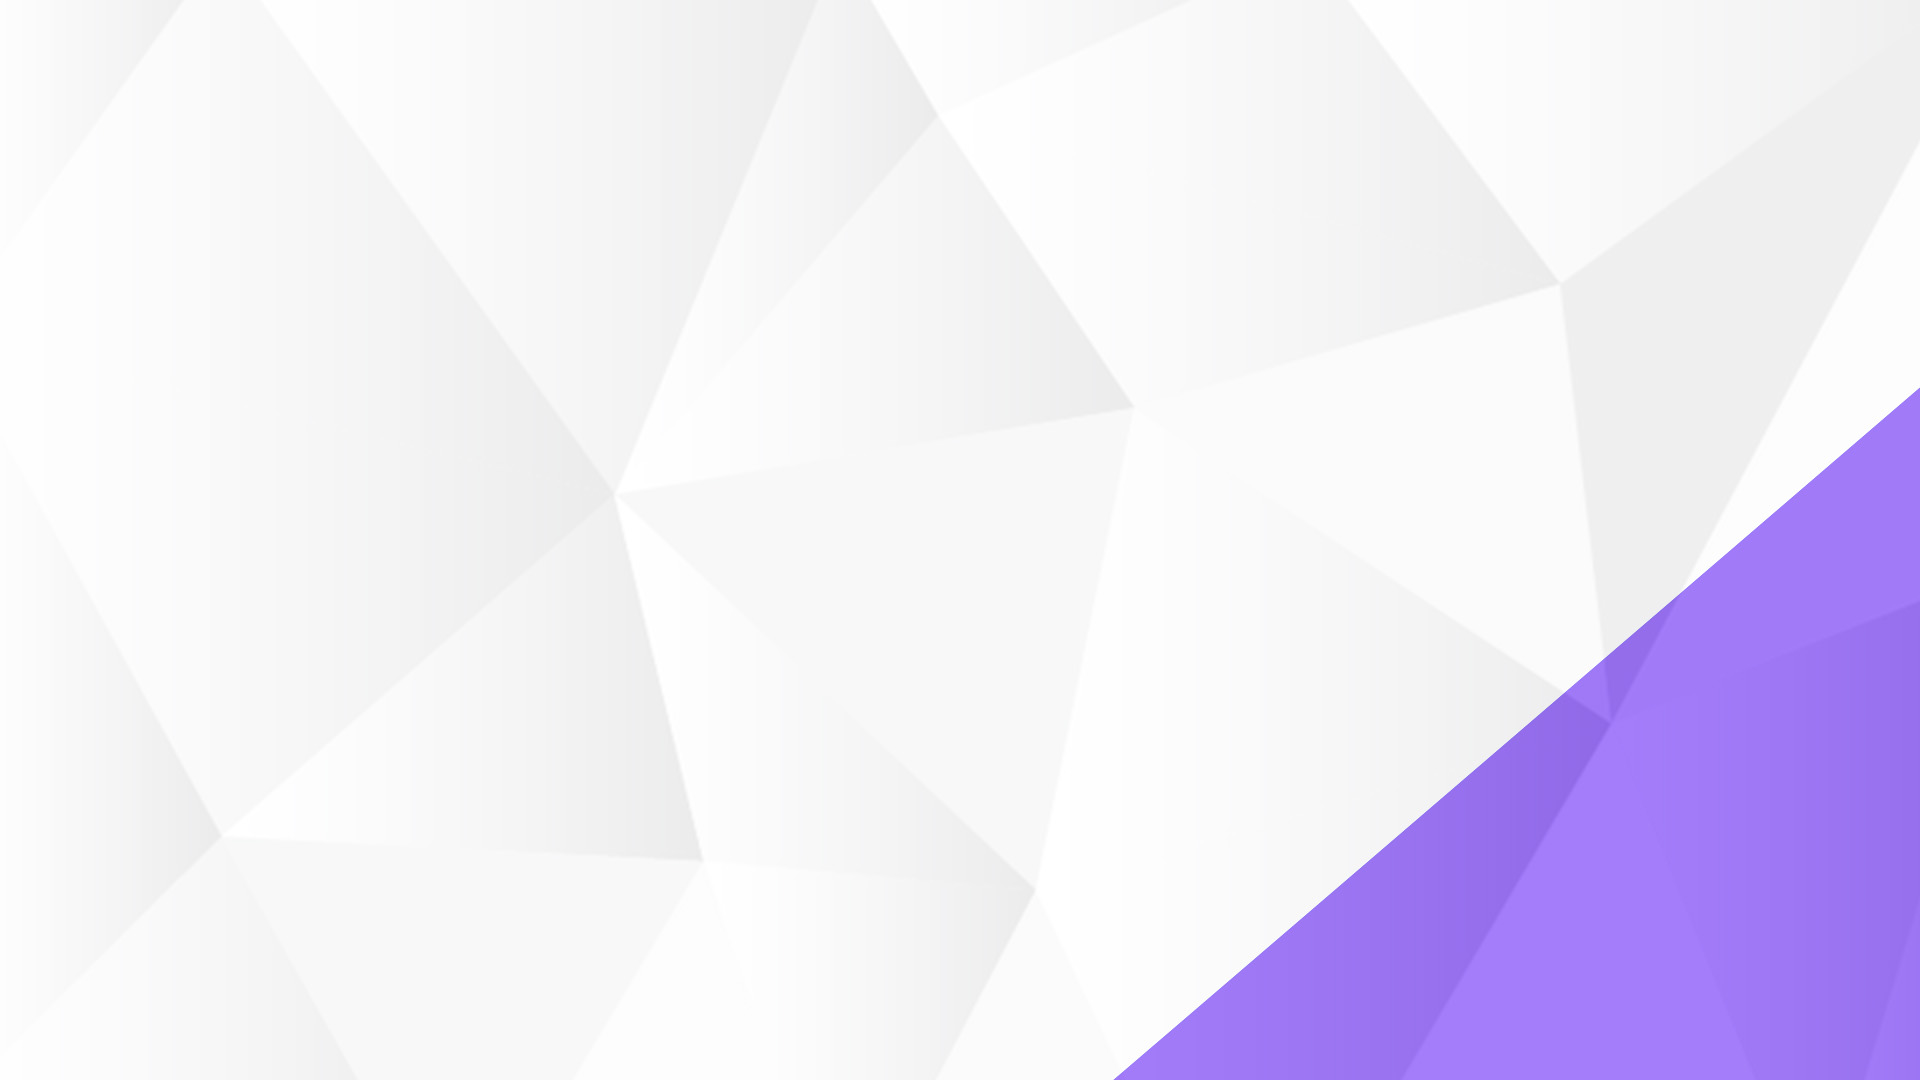
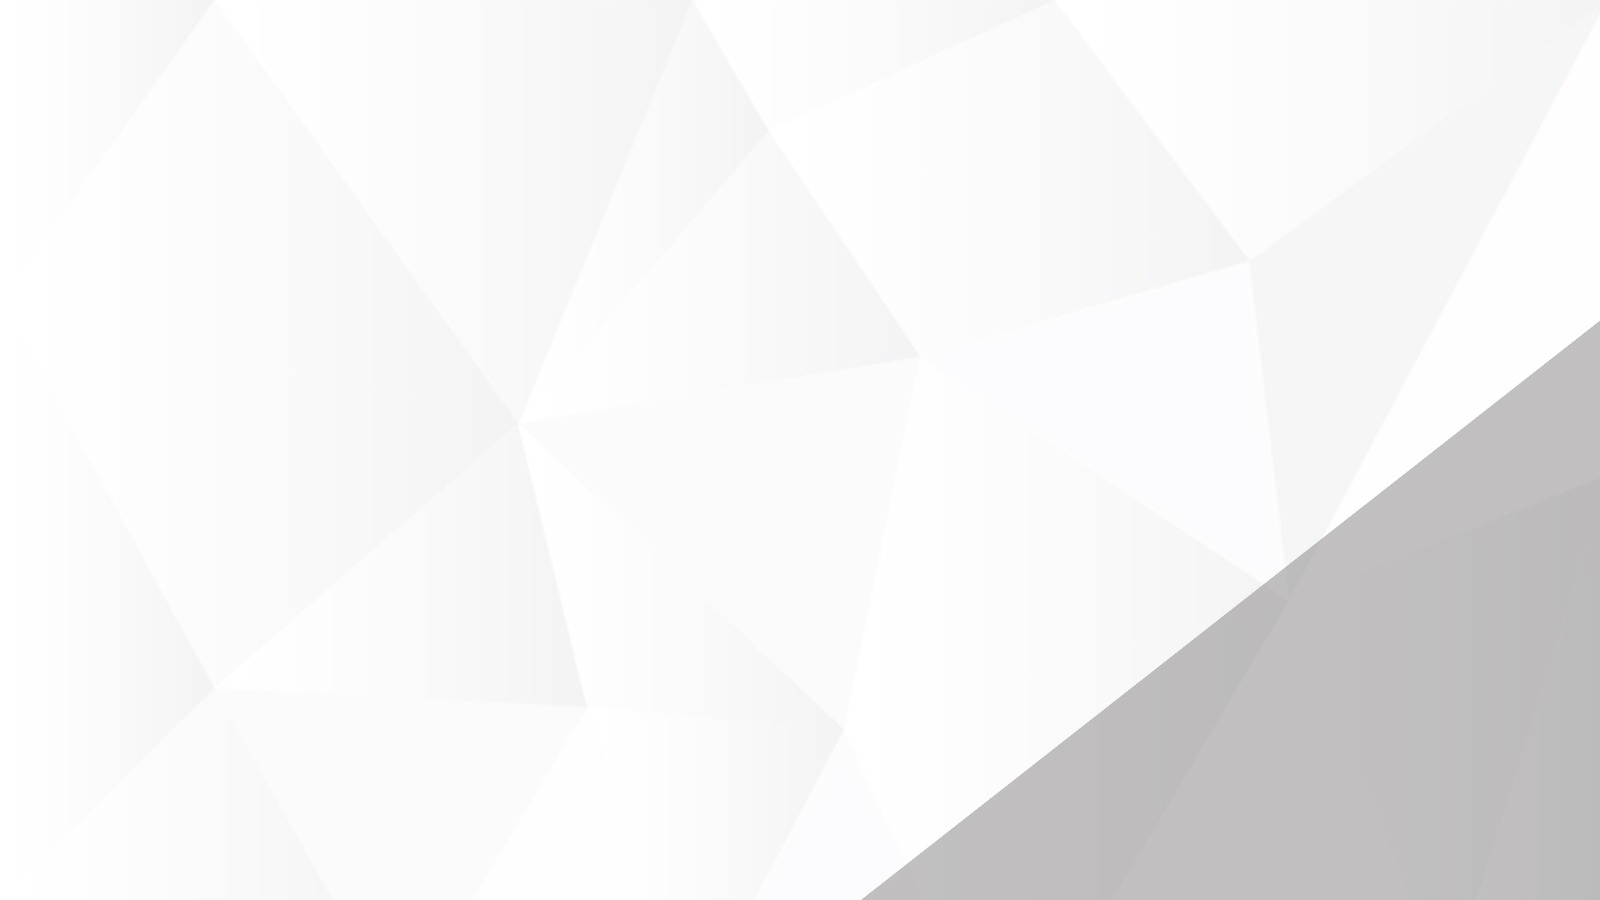
private routing

Changed region(s): [[0.5312, 0.3422, 1.0, 1.0]]

diff --git a/src/App.jsx b/src/App.jsx
@@ -1,23 +1,31 @@
-import { Route, Routes } from 'react-router-dom'
-import './App.css'
-import Login from './Pages/Login'
-import { Dashboard } from './Pages/Dashboard'
-import Home from './Pages/Home'
-import Category from './Pages/Category'
-import Contest from './Pages/Contest'
-function App() {
+// App.js
+import { Routes, Route, BrowserRouter } from 'react-router-dom';
+import './App.css';
+import Login from './Pages/Login';
+import { Dashboard } from './Pages/Dashboard';
+import Home from './Pages/Home';
+import Category from './Pages/Category';
+import Contest from './Pages/Contest';
+import { AuthProvider } from './AuthContext';
+import PrivateRoute from './PrivateRoute';
+import PageNotfound from './Pages/PageNotfound';
 
+function App() {
   return (
-    <>
-    <Routes>
-      <Route path='/' element={<Login/>}/>
-      <Route path='/dashboard' element={<Dashboard/>}/>
-      <Route path='/home' element={<Home/>}/>
-      <Route path='/category' element={<Category/>}/>
-      <Route path='/contest' element={<Contest/>}/>
-    </Routes>
-    </>
-  )
+    <AuthProvider>
+    <BrowserRouter>
+      <Routes>
+        <Route path='/' element={<Login />} />
+        <Route path='*' element={<PageNotfound />} />
+        {/* private routes */}
+        <Route path="/dashboard" element={<PrivateRoute element={Dashboard} />} />
+        <Route path="/home" element={<PrivateRoute element={Home} />} />
+        <Route path="/category" element={<PrivateRoute element={Category} />} />
+        <Route path="/contest" element={<PrivateRoute element={Contest} />} />
+      </Routes>
+    </BrowserRouter>
+  </AuthProvider>
+  );
 }
 
-export default App
+export default App;

diff --git a/src/Pages/Login.jsx b/src/Pages/Login.jsx
@@ -2,13 +2,16 @@ import axios from 'axios';
 import { useState } from 'react'
 import { FaEye, FaEyeSlash } from 'react-icons/fa';
 import { useNavigate } from 'react-router-dom';
-import { baseurl } from '../Base_url/baseUrl';
 import { FiLogIn } from "react-icons/fi";
 import '../Styles/login.css'
 import login_img from '../assets/login_img.png'
-const Login = () => {
+import { useAuth } from '../AuthContext';
 
+const Login = () => {
+  const {login} = useAuth()
   const navigate=useNavigate()
+  const base_url = import.meta.env.VITE_BASE_URL
+
   const [showpassword,setShowpassword]=useState(false)
     const togglepassword=()=>{
         setShowpassword(!showpassword)
@@ -21,14 +24,14 @@ const Login = () => {
   //Login
   const handleLogin=async()=>{
     try {
-      const response = await axios.post(`${baseurl}/admin/login`, {
+      const response = await axios.post(`${base_url}/admin/login`, {
         phone:loginDetails.phone,
         password:loginDetails.password
       })
       console.log(response);
       if(response.data.success === true){
-        // alert('Login successful')
-      navigate('/dashboard')
+        login();
+        navigate('/dashboard')
       }
       else{
         alert('Invalid details')

diff --git a/src/Pages/Category.jsx b/src/Pages/Category.jsx
@@ -1,6 +1,5 @@
 import '../Styles/category.css'
 import axios from "axios";
-import { baseurl } from "../Base_url/baseUrl";
 import { useEffect, useState } from "react";
 import Sidebar from '../Components/Sidebar';
 import { IoIosSearch } from "react-icons/io";
@@ -21,11 +20,13 @@ import Createcategory from '../Components/Createcategory';
 const Category = () => {
     const [categories, setCategories] = useState([]);
     const [currentPage,setCurrentPage] = useState(1);
+    const base_url = import.meta.env.VITE_BASE_URL
+
 
     // Get category
     const fetchCategory = async(page) =>{
         try {
-            const response =   await axios.get(`${baseurl}/admin/category/view/list/${page}`)
+            const response =   await axios.get(`${base_url}/admin/category/view/list/${page}`)
             setCategories(response.data.data.categoryList)
         } catch (error) {
             console.error('Error fetching categories:', error);

diff --git a/src/Components/Createcategory.jsx b/src/Components/Createcategory.jsx
@@ -11,9 +11,10 @@ import {
   MDBModalFooter,
 } from 'mdb-react-ui-kit';
 import axios from 'axios';
-import { baseurl } from '../Base_url/baseUrl';
 
 const Createcategory = () => {
+  const base_url = import.meta.env.VITE_BASE_URL
+
     const [centredModal, setCentredModal] = useState(false);
     const toggleOpen = () => setCentredModal(!centredModal);
     const [createCategory, setCreateCategory] = useState({
@@ -28,7 +29,7 @@ const Createcategory = () => {
         }
         else{
             try {
-                const response = await axios.post(`${baseurl}/admin/category/create`, {
+                const response = await axios.post(`${base_url}/admin/category/create`, {
                     category_name: createCategory.category_name,
                     active: createCategory.category_status
                 },

diff --git a/src/AuthContext.jsx b/src/AuthContext.jsx
@@ -1,0 +1,25 @@
+
+import  { createContext, useContext, useState, useEffect } from 'react';
+
+const AuthContext = createContext();
+
+export const AuthProvider = ({ children }) => {
+  const [isAuthenticated, setIsAuthenticated] = useState(() => {
+    return JSON.parse(sessionStorage.getItem('isAuthenticated')) || false;
+  });
+
+  useEffect(() => {
+    sessionStorage.setItem('isAuthenticated', JSON.stringify(isAuthenticated));
+  }, [isAuthenticated]);
+
+  const login = () => setIsAuthenticated(true);
+  const logout = () => setIsAuthenticated(false);
+
+  return (
+    <AuthContext.Provider value={{ isAuthenticated, login, logout }}>
+      {children}
+    </AuthContext.Provider>
+  );
+};
+
+export const useAuth = () => useContext(AuthContext);

diff --git a/src/main.jsx b/src/main.jsx
@@ -6,12 +6,9 @@ import 'bootstrap/dist/css/bootstrap.min.css';
 import 'bootstrap/dist/js/bootstrap.bundle.min.js';
 import App from './App.jsx'
 import './index.css'
-import { BrowserRouter } from 'react-router-dom'
 
 ReactDOM.createRoot(document.getElementById('root')).render(
   <React.StrictMode>
-    <BrowserRouter>
     <App />
-    </BrowserRouter>
   </React.StrictMode>,
 )

diff --git a/src/PrivateRoute.jsx b/src/PrivateRoute.jsx
@@ -1,0 +1,12 @@
+
+import { Navigate } from 'react-router-dom';
+import { useAuth } from './AuthContext';
+
+const PrivateRoute = ({ element: Element }) => {
+  const { isAuthenticated } = useAuth();
+  console.log('isAuthenticated:', isAuthenticated);
+
+  return isAuthenticated ? <Element /> : <Navigate to="/" />;
+};
+
+export default PrivateRoute;

diff --git a/src/Pages/PageNotfound.jsx b/src/Pages/PageNotfound.jsx
@@ -1,0 +1,10 @@
+
+const PageNotfound = () => {
+  return (
+    <div className="text-center p-2">
+        <h1>Not found</h1>
+    </div>
+  )
+}
+
+export default PageNotfound
